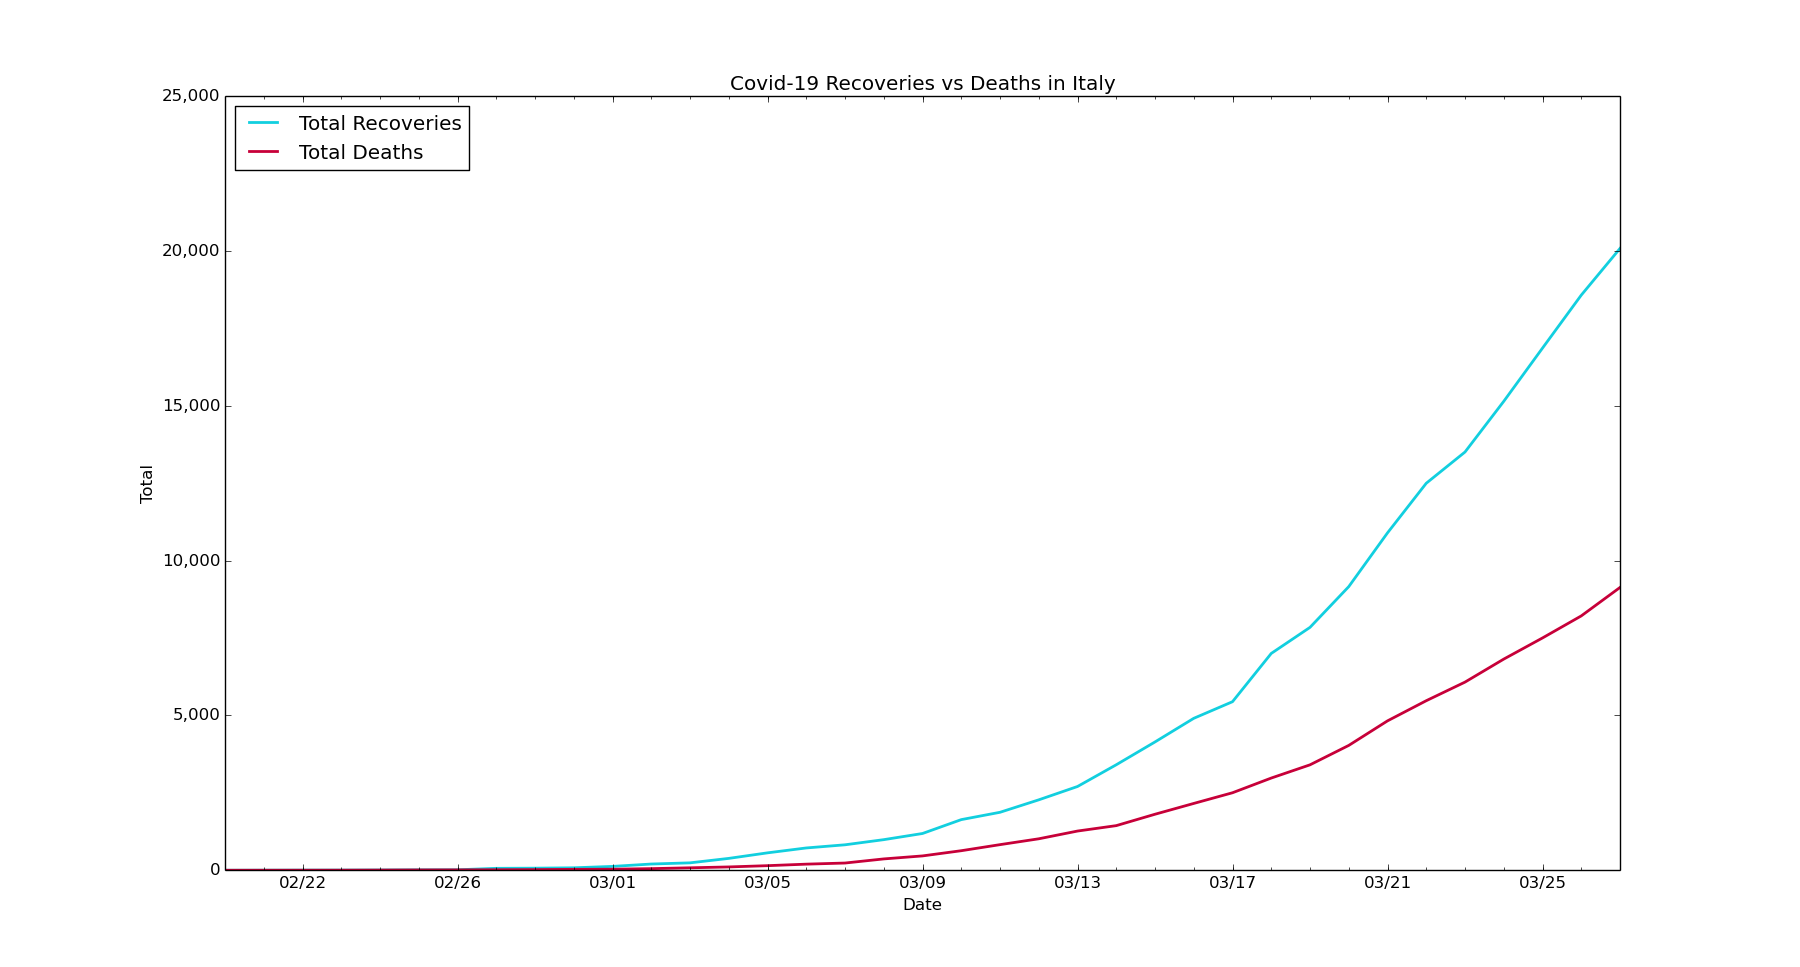
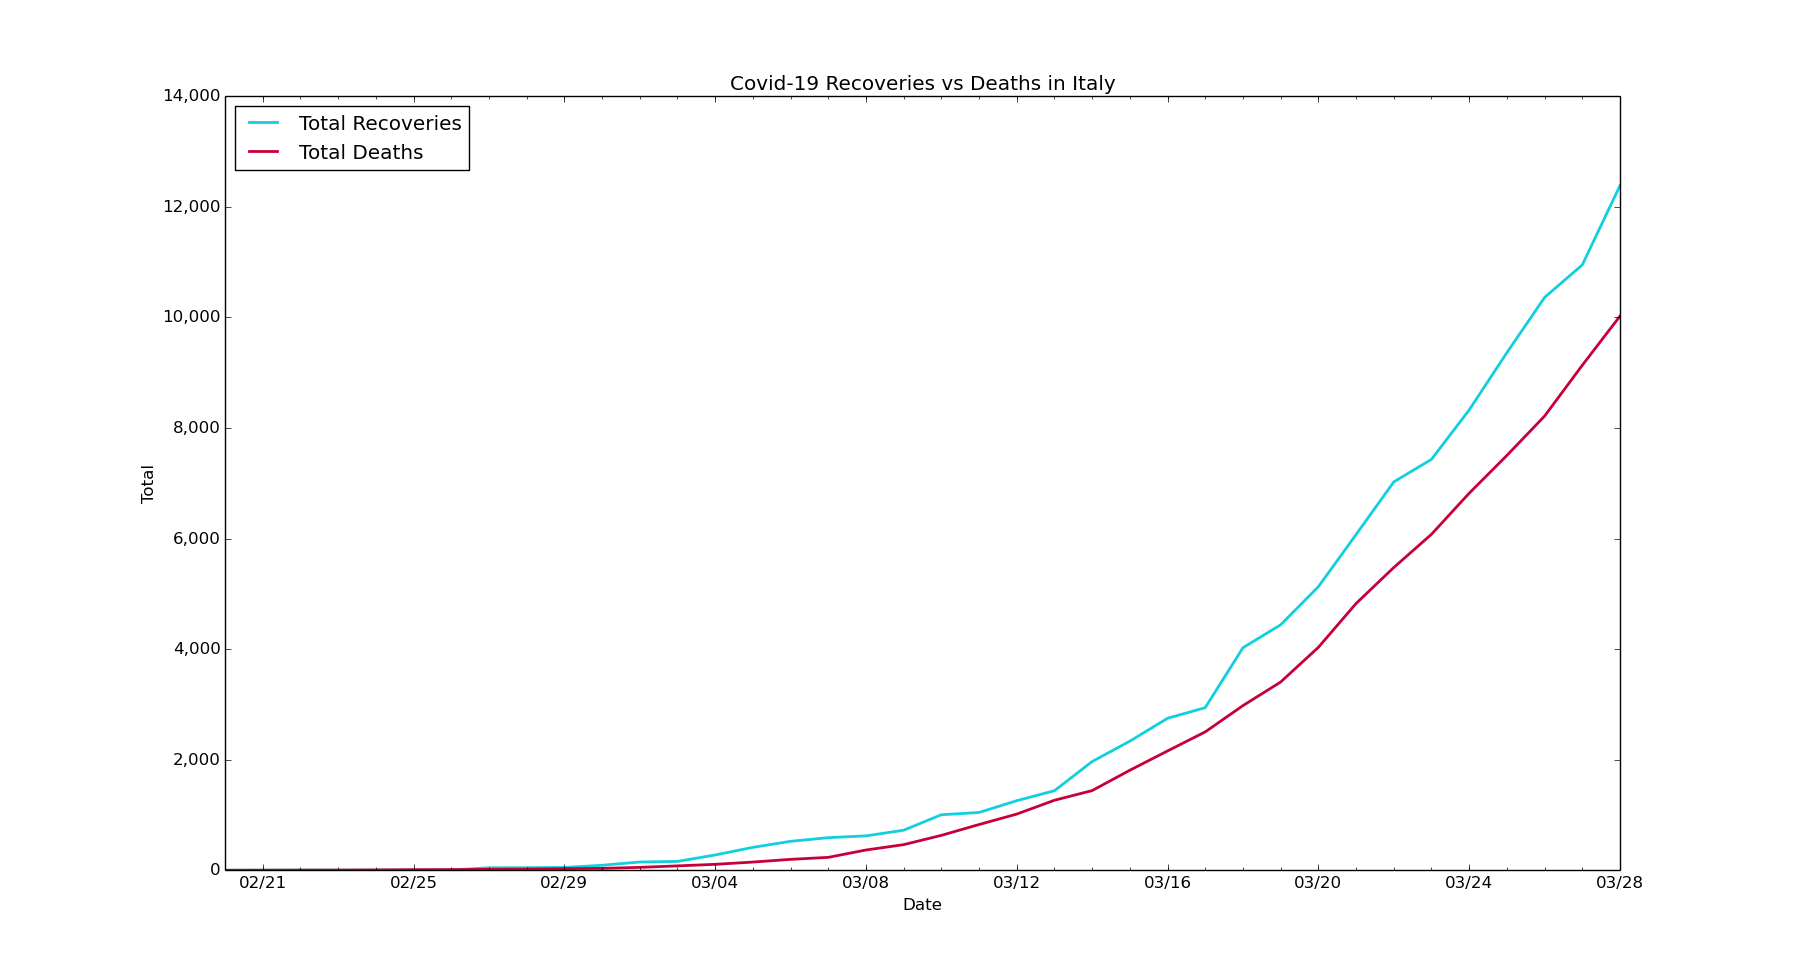
chore: Update data and graphs for Italy

diff --git a/italy/it-nc.py b/italy/it-nc.py
@@ -5,7 +5,7 @@ import matplotlib.pyplot as plt
 import matplotlib.dates as mdates
 from matplotlib.dates import MO, TU, WE, TH, FR, SA, SU
 
-dates = ['1/31/2020', '2/1/2020', '2/2/2020', '2/3/2020', '2/4/2020', '2/5/2020', '2/6/2020', '2/7/2020', '2/8/2020', '2/9/2020', '2/10/2020', '2/11/2020', '2/12/2020', '2/13/2020', '2/14/2020', '2/15/2020', '2/16/2020', '2/17/2020', '2/18/2020', '2/19/2020', '2/20/2020', '2/21/2020', '2/22/2020', '2/23/2020', '2/24/2020', '2/25/2020', '2/26/2020', '2/27/2020', '2/28/2020', '2/29/2020', '3/1/2020', '3/2/2020', '3/3/2020', '3/4/2020', '3/5/2020', '3/6/2020', '3/7/2020', '3/8/2020', '3/9/2020', '3/10/2020', '3/11/2020', '3/12/2020', '3/13/2020', '3/14/2020', '3/15/2020', '3/16/2020', '3/17/2020', '3/18/2020', '3/19/2020', '3/20/2020', '3/21/2020', '3/22/2020', '3/23/2020', '3/24/2020', '3/25/2020', '3/26/2020', '3/27/2020']
+dates = ['1/31/2020', '2/1/2020', '2/2/2020', '2/3/2020', '2/4/2020', '2/5/2020', '2/6/2020', '2/7/2020', '2/8/2020', '2/9/2020', '2/10/2020', '2/11/2020', '2/12/2020', '2/13/2020', '2/14/2020', '2/15/2020', '2/16/2020', '2/17/2020', '2/18/2020', '2/19/2020', '2/20/2020', '2/21/2020', '2/22/2020', '2/23/2020', '2/24/2020', '2/25/2020', '2/26/2020', '2/27/2020', '2/28/2020', '2/29/2020', '3/1/2020', '3/2/2020', '3/3/2020', '3/4/2020', '3/5/2020', '3/6/2020', '3/7/2020', '3/8/2020', '3/9/2020', '3/10/2020', '3/11/2020', '3/12/2020', '3/13/2020', '3/14/2020', '3/15/2020', '3/16/2020', '3/17/2020', '3/18/2020', '3/19/2020', '3/20/2020', '3/21/2020', '3/22/2020', '3/23/2020', '3/24/2020', '3/25/2020', '3/26/2020', '3/27/2020', '3/28/2020']
 
 # format dates
 x_values = [datetime.datetime.strptime(d, "%m/%d/%Y").date() for d in dates]
@@ -20,7 +20,7 @@ ax.xaxis.set_major_locator(mdates.WeekdayLocator(byweekday=(MO, TU, WE, TH, FR, 
 ax.xaxis.set_minor_locator(mdates.WeekdayLocator(byweekday=(MO, TU, WE, TH, FR, SA, SU)))
 
 # new cases by day
-new_cases = [2, 0, 0, 0, 0, 0, 1, 0, 0, 0, 0, 0, 0, 0, 0, 0, 0, 0, 0, 0, 0, 17, 58, 78, 72, 94, 147, 185, 234, 239, 573, 335, 466, 587, 769, 778, 1247, 1492, 1797, 977, 2313, 2651, 2547, 3497, 3590, 3233, 3526, 4207, 5322, 5986, 6557, 5560, 4789, 5249, 5210, 6203, 5909]
+new_cases = [2, 0, 0, 0, 0, 0, 1, 0, 0, 0, 0, 0, 0, 0, 0, 0, 0, 0, 0, 0, 0, 17, 58, 78, 72, 94, 147, 185, 234, 239, 573, 335, 466, 587, 769, 778, 1247, 1492, 1797, 977, 2313, 2651, 2547, 3497, 3590, 3233, 3526, 4207, 5322, 5986, 6557, 5560, 4789, 5249, 5210, 6203, 5909, 5974]
 
 # text labels
 plt.title('Covid-19 New Confirmed Diagnoses Each Day in Italy')

diff --git a/italy/it-rvd.py b/italy/it-rvd.py
@@ -6,7 +6,7 @@ import matplotlib.dates as mdates
 import matplotlib.ticker as ticker
 from matplotlib.dates import MO, TU, WE, TH, FR, SA, SU
 
-dates = ['2/20/2020', '2/21/2020', '2/22/2020', '2/23/2020', '2/24/2020', '2/25/2020', '2/26/2020', '2/27/2020', '2/28/2020', '2/29/2020', '3/1/2020', '3/2/2020', '3/3/2020', '3/4/2020', '3/5/2020', '3/6/2020', '3/7/2020', '3/8/2020', '3/9/2020', '3/10/2020', '3/11/2020', '3/12/2020', '3/13/2020', '3/14/2020', '3/15/2020', '3/16/2020', '3/17/2020', '3/18/2020', '3/19/2020', '3/20/2020', '3/21/2020', '3/22/2020', '3/23/2020', '3/24/2020', '3/25/2020', '3/26/2020', '3/27/2020']
+dates = ['2/20/2020', '2/21/2020', '2/22/2020', '2/23/2020', '2/24/2020', '2/25/2020', '2/26/2020', '2/27/2020', '2/28/2020', '2/29/2020', '3/1/2020', '3/2/2020', '3/3/2020', '3/4/2020', '3/5/2020', '3/6/2020', '3/7/2020', '3/8/2020', '3/9/2020', '3/10/2020', '3/11/2020', '3/12/2020', '3/13/2020', '3/14/2020', '3/15/2020', '3/16/2020', '3/17/2020', '3/18/2020', '3/19/2020', '3/20/2020', '3/21/2020', '3/22/2020', '3/23/2020', '3/24/2020', '3/25/2020', '3/26/2020', '3/27/2020', '3/28/2020']
 
 # format dates
 x_values = [datetime.datetime.strptime(d, "%m/%d/%Y").date() for d in dates]
@@ -24,10 +24,10 @@ ax.xaxis.set_minor_locator(mdates.WeekdayLocator(byweekday=(MO, TU, WE, TH, FR, 
 ax.get_yaxis().set_major_formatter(ticker.FuncFormatter(lambda x, pos: format(int(x), ',')))
 
 # recoveries
-recoveries = [0, 2, 4, 5, 8, 13, 15, 62, 67, 79, 124, 201, 239, 383, 562, 720, 822, 988, 1187, 1635, 1872, 2274, 2705, 3407, 4144, 4907, 5444, 7003, 7845, 9161, 10897, 12500, 13509, 15146, 16865, 18576, 20084]
+recoveries = [0, 1, 2, 2, 2, 3, 3, 45, 46, 50, 90, 149, 160, 276, 414, 523, 589, 622, 724, 1004, 1045, 1258, 1439, 1966, 2335, 2749, 2941, 4025, 4440, 5129, 6072, 7024, 7432, 8326, 9362, 10361, 10950, 12384]
 
 # deaths
-deaths = [0, 1, 2, 3, 6, 10, 12, 17, 21, 29, 34, 52, 79, 107, 148, 197, 233, 366, 463, 631, 827, 1016, 1266, 1441, 1809, 2158, 2503, 2978, 3405, 4032, 4825, 5476, 6077, 6820, 7503, 8215, 9134]
+deaths = [0, 1, 2, 3, 6, 10, 12, 17, 21, 29, 34, 52, 79, 107, 148, 197, 233, 366, 463, 631, 827, 1016, 1266, 1441, 1809, 2158, 2503, 2978, 3405, 4032, 4825, 5476, 6077, 6820, 7503, 8215, 9134, 10023]
 
 # create the graph
 plt.plot(x_values, recoveries, color='#12cfdf', linewidth=2)
